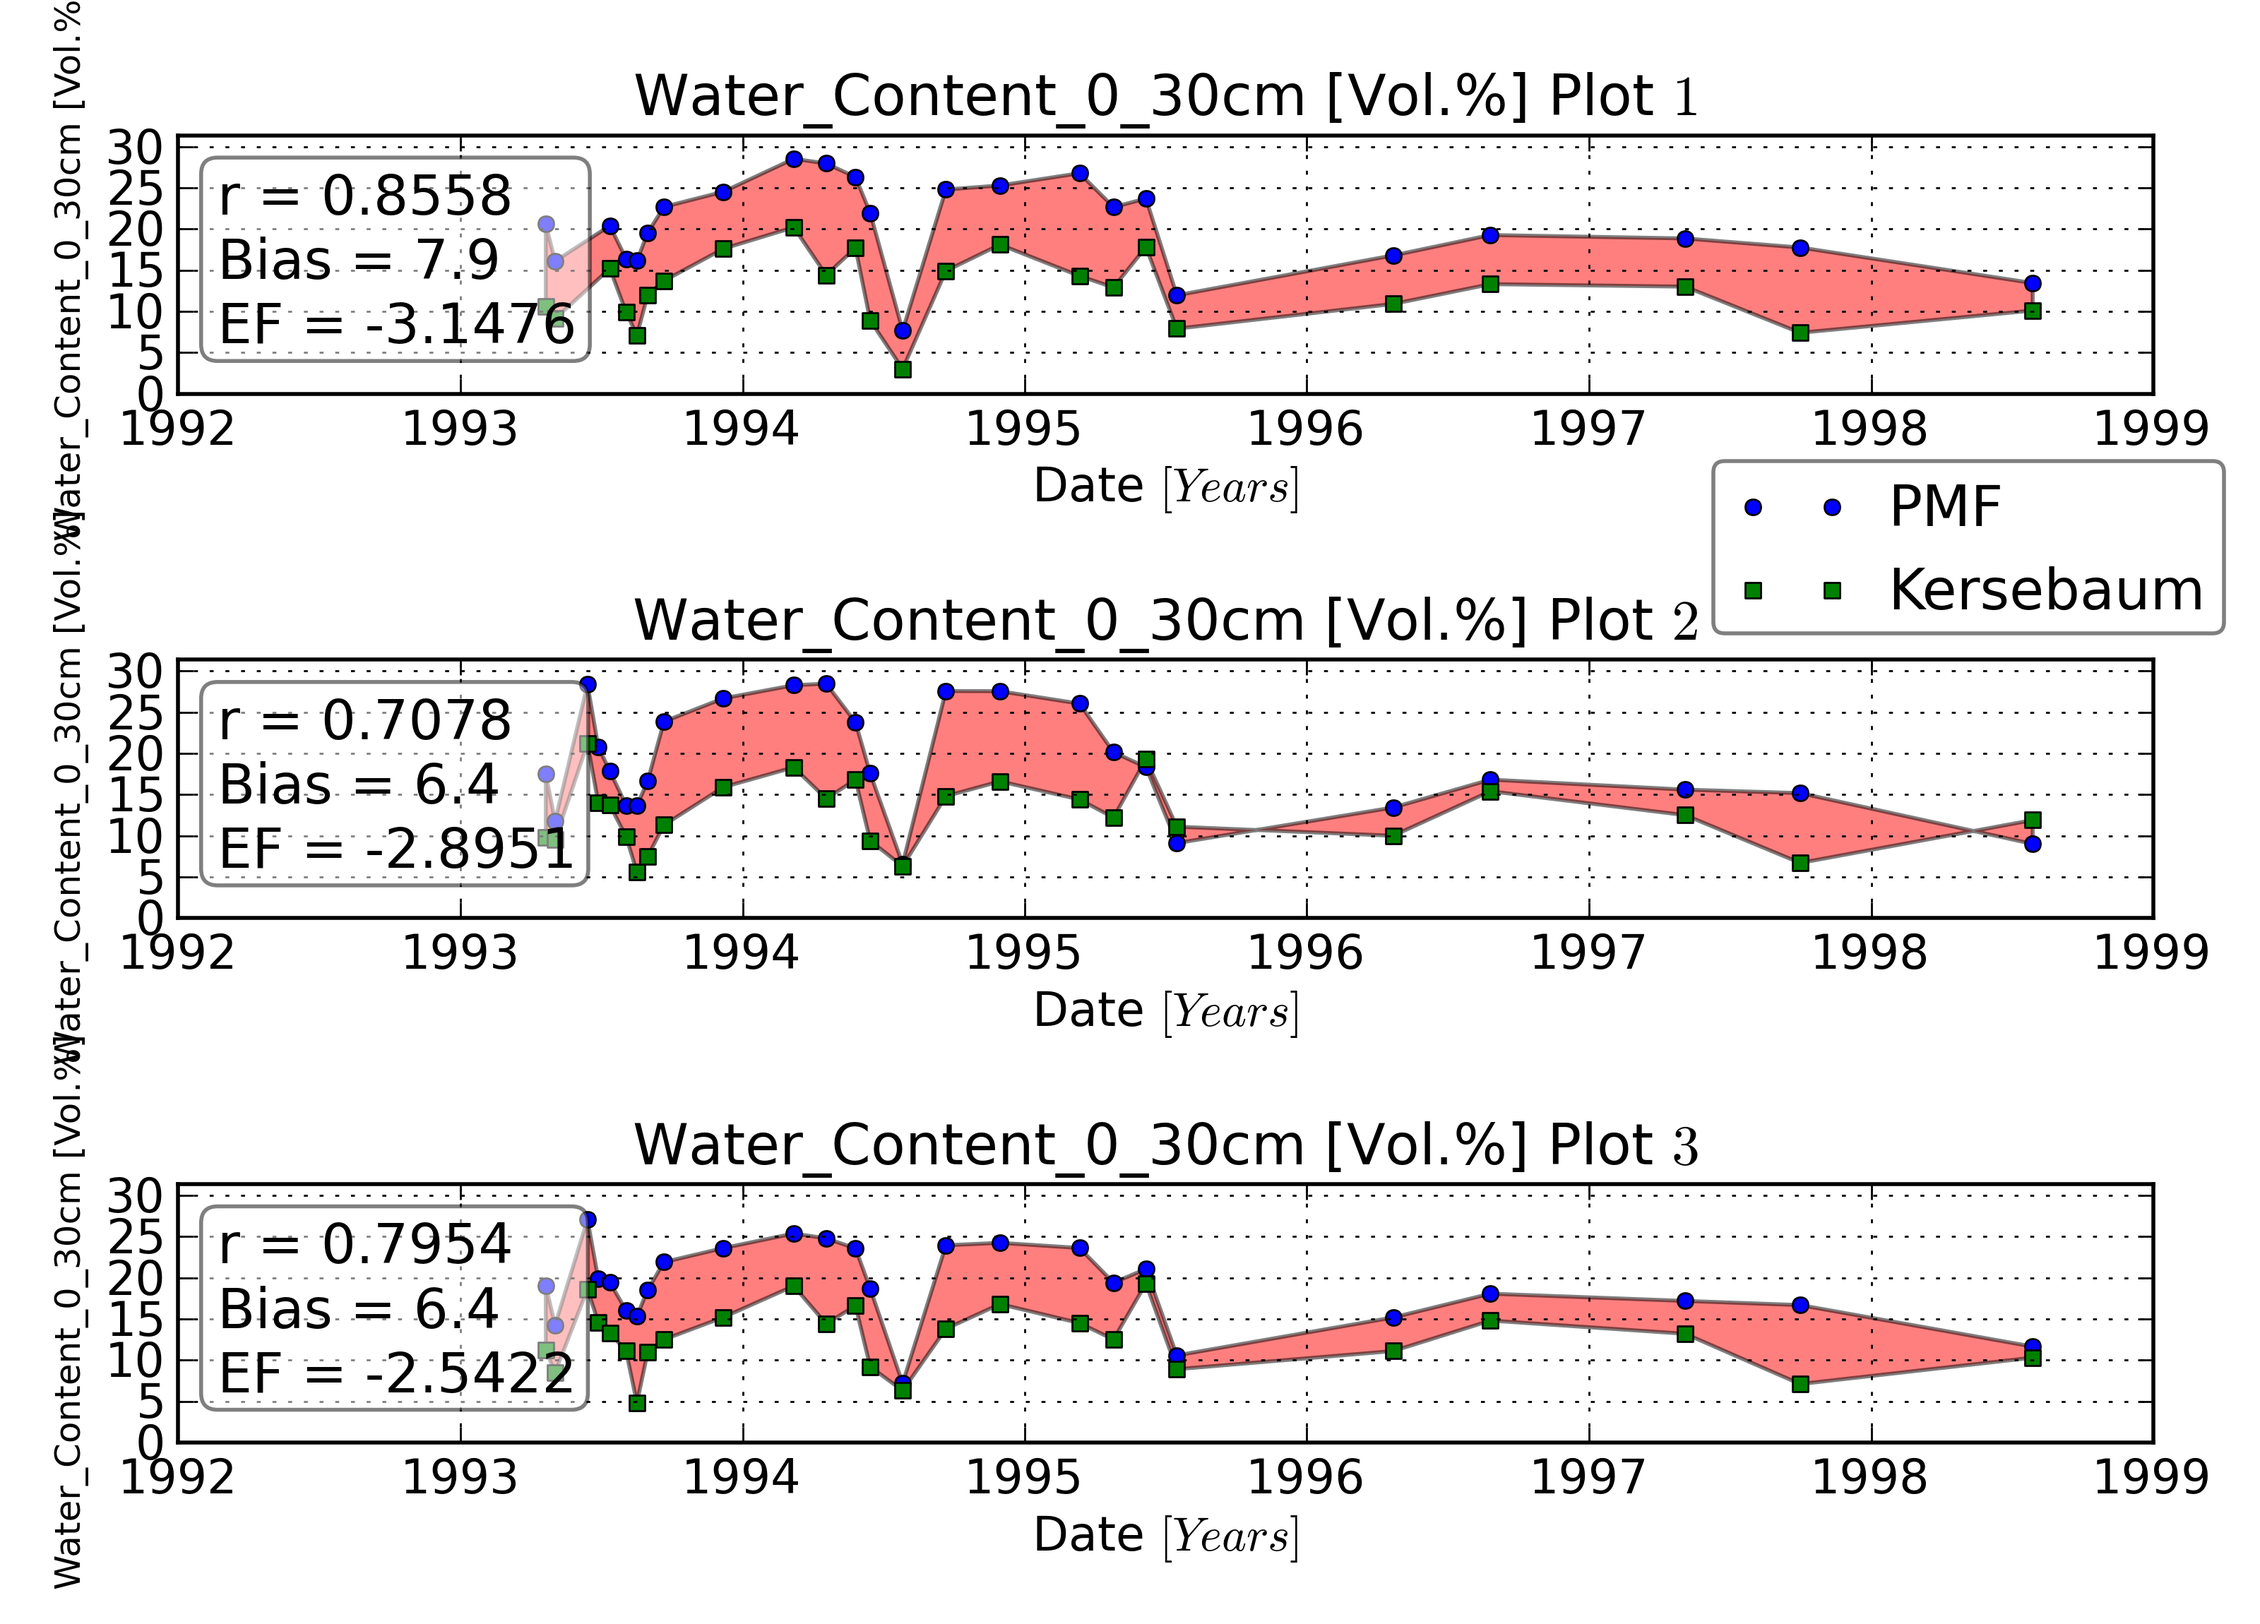
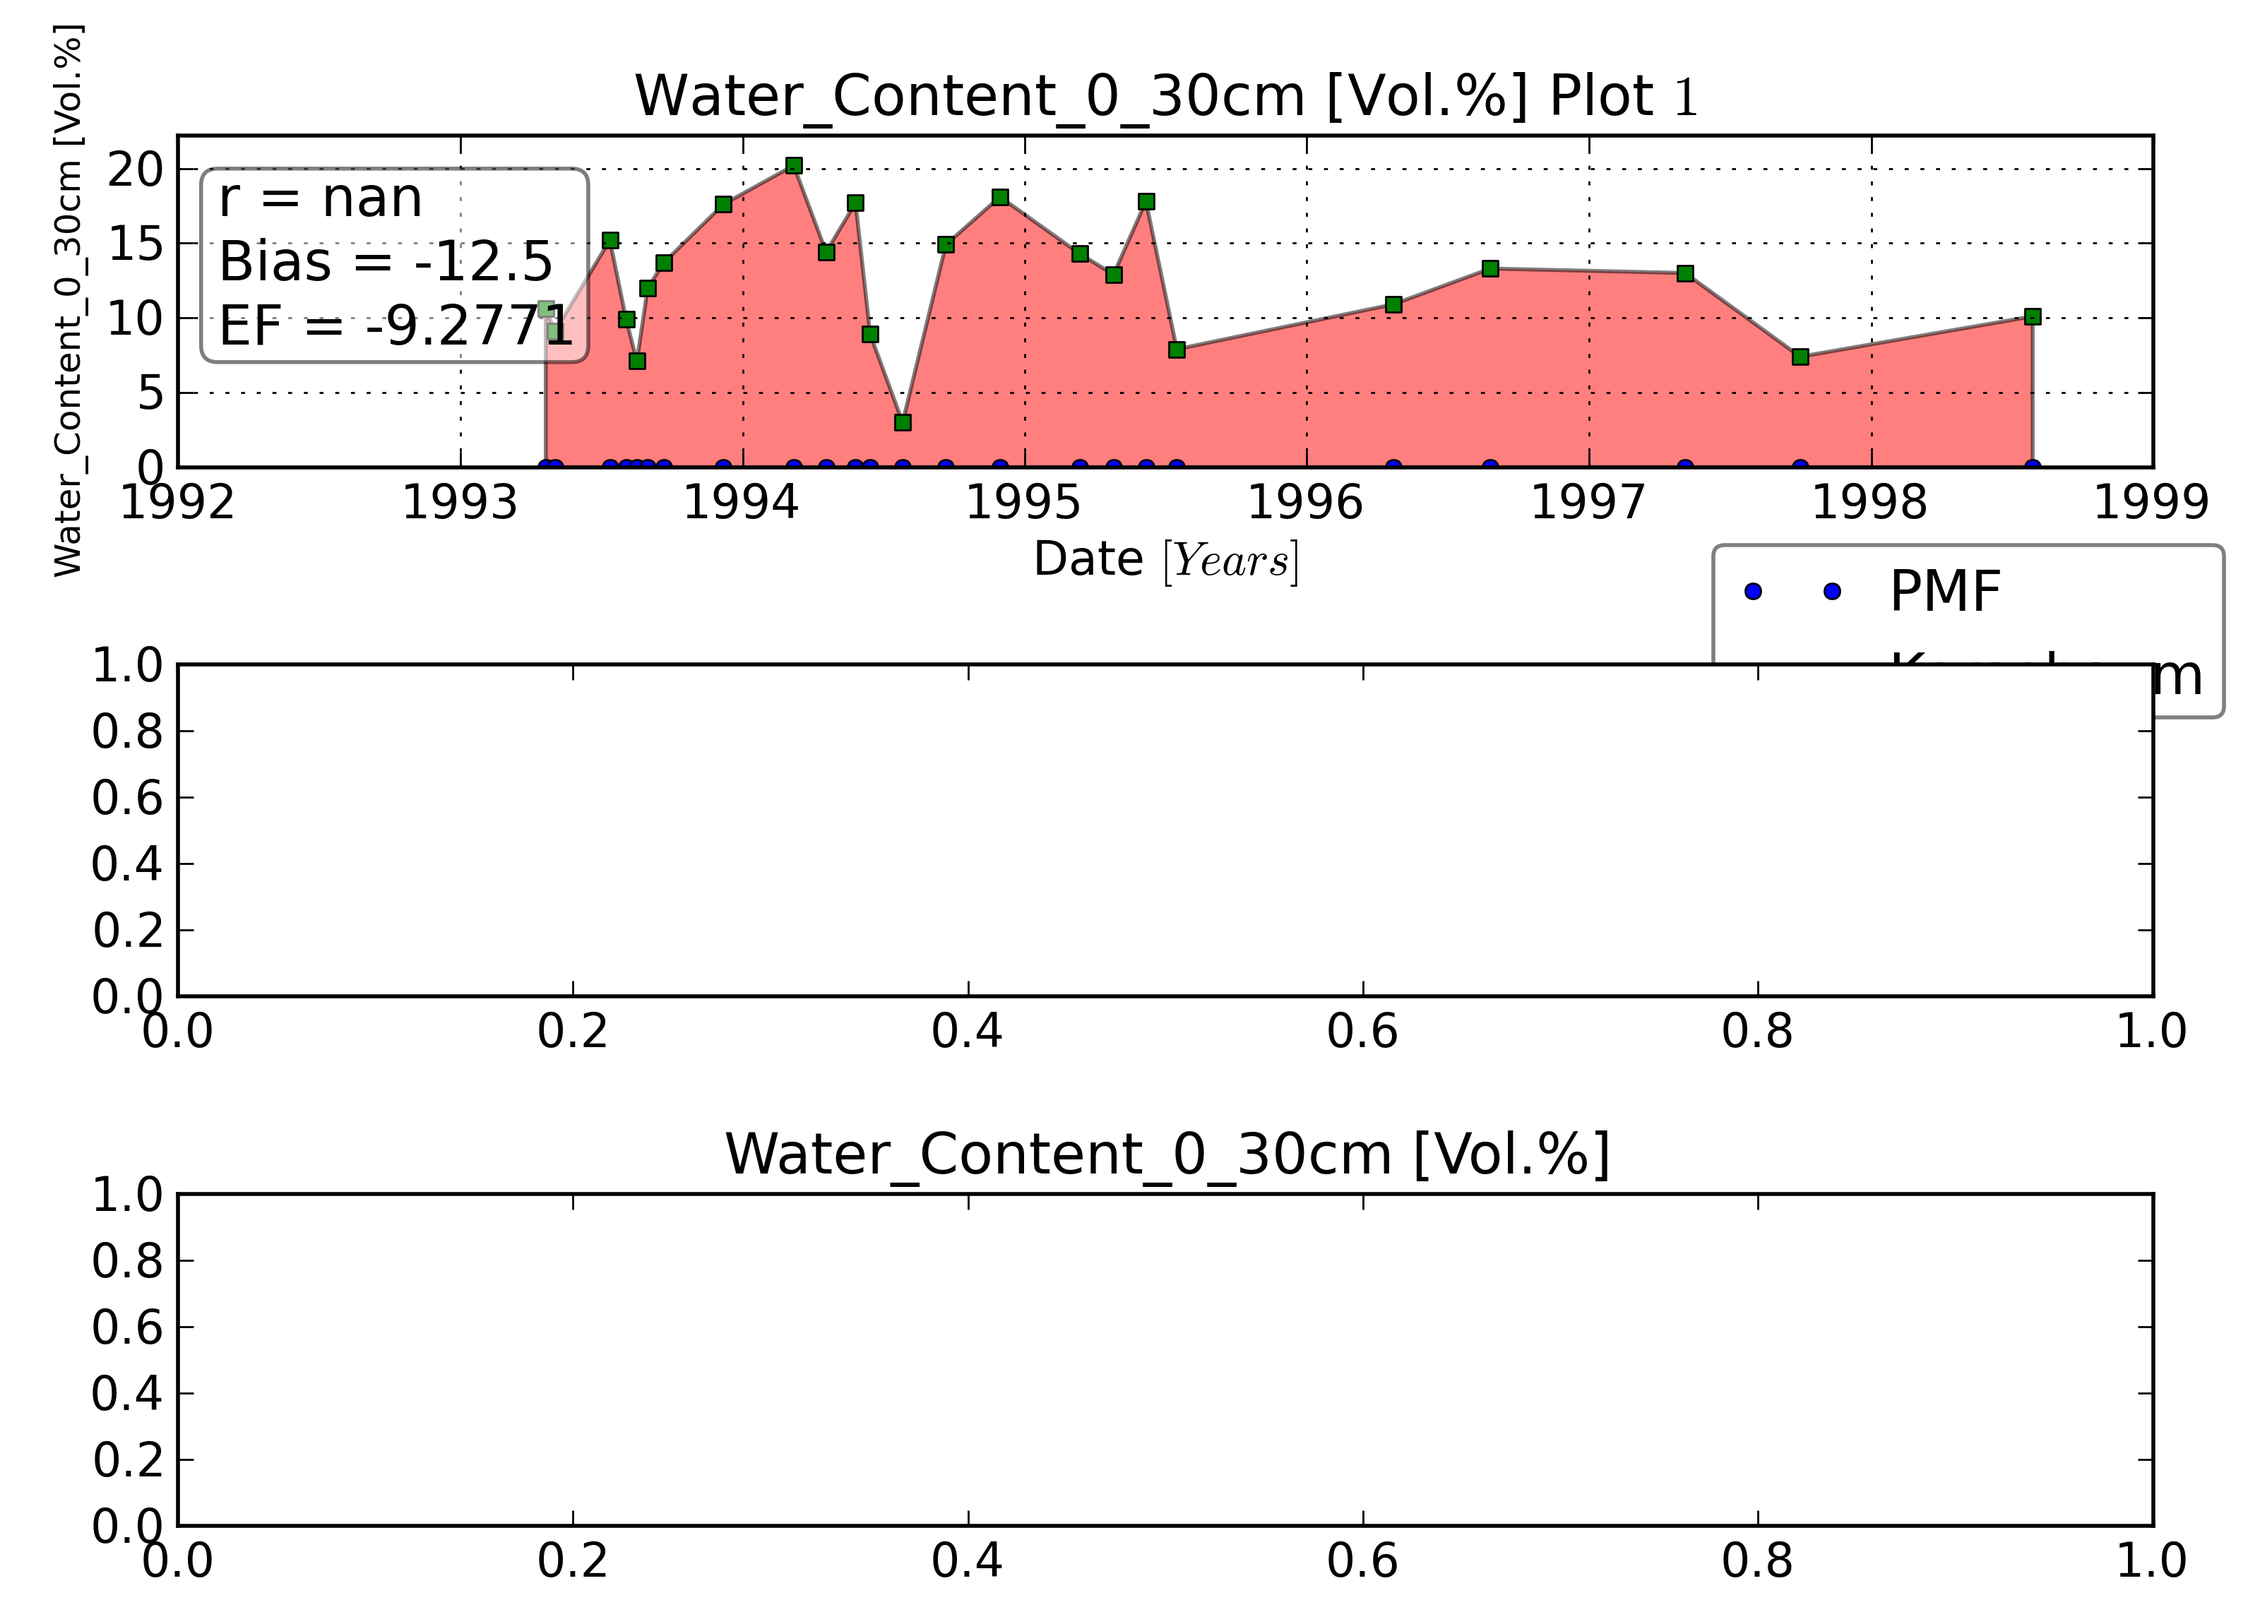
New Feature: - Brooks-Corey90-model in cmf_setup.py changed to                Van-Genuchten-model -> Soil informations from Kersebaum have                no more influence! Parameter will be estimated.              - New file test.py shows how to use numpy arrays

diff --git a/trunk/sensitivity_analysis/sensitivity_analysis_I.py b/trunk/sensitivity_analysis/sensitivity_analysis_I.py
@@ -43,6 +43,8 @@ import cmf
 from cmf_setup import cmf1d
 from cmf_fp_interface import cmf_fp_interface
 import csv, codecs, cStringIO
+import sys
+
 #from math import exp
     
 #######################################
@@ -53,6 +55,7 @@ def run(t,res,plant):
     if t.day==1 and t.month==3: #check sowing
         plant = PMF.createPlant_CMF() #create a plant instance without interfaces
         plant = PMF.connect(plant,cmf_fp,cmf_fp) #connect the plant with soil and atmosphere interface
+        
     if t.day==1 and t.month==8: #check harvest
         plant =  None #delete plant instance
     if plant: #check, if plant exists
@@ -184,13 +187,16 @@ def get_soil_data(Plot):
         #########       Bodenschichten        #########
         if Plot==1:
             #Interpolated Soillayers 
-            c=cmf1d(sand=[90.00,90.00,90.00,90.00,90.00,90.00,90.00,90.00,90.00,90.00,90.00,90.00,90.00,88.33,86.67,85.00,83.33,81.67,80.00,82.00,84.00,86.00,88.00,90.00,92.00,92.33,92.67,93.00,93.33,93.67,94.00,94.13,94.27,94.40,94.53,94.67,94.80,94.93,95.07,95.20,95.33,95.47,95.60,95.73,95.87,96.00],silt=[2.00,2.17,2.33,2.50,2.67,2.83,3.00,3.33,3.67,4.00,4.33,4.67,5.00,5.50,6.00,6.50,7.00,7.50,8.00,7.33,6.67,6.00,5.33,4.67,4.00,3.83,3.67,3.50,3.33,3.17,3.00,2.93,2.87,2.80,2.73,2.67,2.60,2.53,2.47,2.40,2.33,2.27,2.20,2.13,2.07,2.00],clay=[8.00,7.83,7.67,7.50,7.33,7.17,7.00,6.67,6.33,6.00,5.67,5.33,5.00,6.17,7.33,8.50,9.67,10.83,12.00,10.67,9.33,8.00,6.67,5.33,4.00,3.83,3.67,3.50,3.33,3.17,3.00,2.93,2.87,2.80,2.73,2.67,2.60,2.53,2.47,2.40,2.33,2.27,2.20,2.13,2.07,2.00],c_org=[76.00,74.33,72.67,71.00,69.33,67.67,66.00,57.67,49.33,41.00,32.67,24.33,16.00,14.67,13.33,12.00,10.67,9.33,8.00,6.67,5.33,4.00,2.67,1.33,0.00,0.00,0.00,0.00,0.00,0.00,0.00,0.00,0.00,0.00,0.00,0.00,0.00,0.00,0.00,0.00,0.00,0.00,0.00,0.00,0.00,0.00],bedrock_K=0.01,layercount=6,layerthickness=[.05,.05,.05,.05,.05,.05,.05,.05,.05,.05,.05,.05,.05,.05,.05,.05,.05,.05,.05,.05,.05,.05,.05,.05,.05,.05,.05,.05,.05,.05,.05,.05,.05,.05,.05,.05,.05,.05,.05,.05,.05,.05,.05,.05,.05,.05],tracertext='')
+            c=cmf1d(Ksat=1.0,porosity=0.45,alpha=0.05,n=1.5,layercount=50,layerthickness=[0.05]*50)            
+            #c=cmf1d(sand=[90.00,90.00,90.00,90.00,90.00,90.00,90.00,90.00,90.00,90.00,90.00,90.00,90.00,88.33,86.67,85.00,83.33,81.67,80.00,82.00,84.00,86.00,88.00,90.00,92.00,92.33,92.67,93.00,93.33,93.67,94.00,94.13,94.27,94.40,94.53,94.67,94.80,94.93,95.07,95.20,95.33,95.47,95.60,95.73,95.87,96.00],silt=[2.00,2.17,2.33,2.50,2.67,2.83,3.00,3.33,3.67,4.00,4.33,4.67,5.00,5.50,6.00,6.50,7.00,7.50,8.00,7.33,6.67,6.00,5.33,4.67,4.00,3.83,3.67,3.50,3.33,3.17,3.00,2.93,2.87,2.80,2.73,2.67,2.60,2.53,2.47,2.40,2.33,2.27,2.20,2.13,2.07,2.00],clay=[8.00,7.83,7.67,7.50,7.33,7.17,7.00,6.67,6.33,6.00,5.67,5.33,5.00,6.17,7.33,8.50,9.67,10.83,12.00,10.67,9.33,8.00,6.67,5.33,4.00,3.83,3.67,3.50,3.33,3.17,3.00,2.93,2.87,2.80,2.73,2.67,2.60,2.53,2.47,2.40,2.33,2.27,2.20,2.13,2.07,2.00],c_org=[76.00,74.33,72.67,71.00,69.33,67.67,66.00,57.67,49.33,41.00,32.67,24.33,16.00,14.67,13.33,12.00,10.67,9.33,8.00,6.67,5.33,4.00,2.67,1.33,0.00,0.00,0.00,0.00,0.00,0.00,0.00,0.00,0.00,0.00,0.00,0.00,0.00,0.00,0.00,0.00,0.00,0.00,0.00,0.00,0.00,0.00],bedrock_K=0.01,layercount=6,layerthickness=[.05,.05,.05,.05,.05,.05,.05,.05,.05,.05,.05,.05,.05,.05,.05,.05,.05,.05,.05,.05,.05,.05,.05,.05,.05,.05,.05,.05,.05,.05,.05,.05,.05,.05,.05,.05,.05,.05,.05,.05,.05,.05,.05,.05,.05,.05],tracertext='')
+                        
             #Bodendatei='Water_content_Plot1.csv'
             #Orignal Soillayer      
             #c=cmf1d(sand=[90.,90.,80.,92.,94.,96.],silt=[3.,5.,8.,4.,3.,2.],clay=[7.,5.,12.,4.,3.,2.],c_org=[.66,.16,.08,0.,0.,0.],bedrock_K=0.01,layercount=6,layerthickness=[.3,.3,.3,.3,.3,.75],tracertext='')
             
         if Plot==2:
-            #Interpolated Soillayers 
+            #Interpolated Soillayers
+            
             c=cmf1d(sand=[82.00,82.50,83.00,83.50,84.00,84.50,85.00,85.42,85.83,86.25,86.67,87.08,87.50,87.92,88.33,88.75,89.17,89.58,90.00,88.75,87.50,86.25,85.00,83.75,82.50,81.25,80.00,80.00,80.00,80.00,80.00,80.00,80.00,80.00,80.00,85.00,90.00,90.00,90.00,90.00,90.00,90.00,90.00,90.00,90.00,90.00],silt=[13.00,12.50,12.00,11.50,11.00,10.50,10.00,9.58,9.17,8.75,8.33,7.92,7.50,7.08,6.67,6.25,5.83,5.42,5.00,5.38,5.75,6.13,6.50,6.88,7.25,7.63,8.00,8.25,8.50,8.75,9.00,9.25,9.50,9.75,10.00,7.50,5.00,5.00,5.00,5.00,5.00,5.00,5.00,5.00,5.00,5.00],clay=[5.00,5.00,5.00,5.00,5.00,5.00,5.00,5.00,5.00,5.00,5.00,5.00,5.00,5.00,5.00,5.00,5.00,5.00,5.00,5.88,6.75,7.63,8.50,9.38,10.25,11.13,12.00,11.75,11.50,11.25,11.00,10.75,10.50,10.25,10.00,7.50,5.00,5.00,5.00,5.00,5.00,5.00,5.00,5.00,5.00,5.00],c_org=[0.69,0.67,0.65,0.64,0.62,0.60,0.58,0.54,0.51,0.47,0.43,0.39,0.36,0.32,0.28,0.24,0.21,0.17,0.13,0.11,0.10,0.08,0.07,0.05,0.03,0.02,0.00,0.00,0.00,0.00,0.00,0.00,0.00,0.00,0.00,0.00,0.00,0.00,0.00,0.00,0.00,0.00,0.00,0.00,0.00,0.00],bedrock_K=0.01,layercount=6,layerthickness=[.05,.05,.05,.05,.05,.05,.05,.05,.05,.05,.05,.05,.05,.05,.05,.05,.05,.05,.05,.05,.05,.05,.05,.05,.05,.05,.05,.05,.05,.05,.05,.05,.05,.05,.05,.05,.05,.05,.05,.05,.05,.05,.05,.05,.05,.05],tracertext='')
             #Bodendatei='Water_content_Plot2.csv'
             #Orignal Soillayer    
@@ -273,13 +279,13 @@ if __name__=='__main__':
         #Cropvalues = PMF.CropDatabase.CropCoefficiants(RUE = RUE_Faktor+1)
         #PMF.CropDatabase.RUE_CropCoefficants = RUE_Faktor+1     
     #Cropvalues.RUE=RUE_Faktor+1
-    for Plotnumber in range(3):
+    for Plotnumber in range(1):
         Plot =Plotnumber+1
         RUE = 3
         #Parameter = 'storage_organs'
         #Parameter = 'stem_and_leaf'
-        #Parameter = 'Water_Content'
-        Parameter = 'root'
+        Parameter = 'Water_Content'
+        #Parameter = 'root'
         #Parameter_unit = ' Vol[%] '        
         Parameter_unit = ' [kg/ha] '            
         

diff --git a/trunk/sensitivity_analysis/cmf_setup.py b/trunk/sensitivity_analysis/cmf_setup.py
@@ -1,3 +1,4 @@
+# -*- coding: utf-8 -*-
 
 import cmf
 from cmf.soil import layer as ka4_soil
@@ -10,52 +11,48 @@ from datetime import datetime, timedelta
 
 
 class cmf1d(object):
-    def __init__(self,sand,silt,clay,c_org,bedrock_K,layercount,layerthickness,tracertext=''): #was ist mit Bulkdensity? gibt es auch in den Daten
+    def __init__(self,Ksat,porosity,alpha,n,layercount,layerthickness,tracertext=''): #was ist mit Bulkdensity? gibt es auch in den Daten
+        """Creates a Richards Equation 1D model of water fluxes with a lower constant head boundary condition
+        to the groundwater and flux (Neumann) boundary condition for each layer for ET
+        Ksat: sat. conductivity in m/day eg. 1.3
+        porosity: porevolume per soil volume in m³/m³ eg. 0.45
+        alpha: VanGenuchten alpha in 1/cm eg. 0.01
+        n: VanGenuchten n, eg. 1.9
+        bedrock_K: Conductivity of the bedrock in m/day eg. 1.3
+        layercount: Number of layers, eg. 50
+        layerthickness: sequence of layer thickness in m
+        tracertext: cmf conform string, describing the available tracers
+        """        
         self.project=cmf.project(tracertext)
         self.cell=self.project.NewCell(0,0,0,1000)
         c=self.cell      
         # Add 50 layers with 10cm thickness, and 50 Neumann boundary conditions
         self.__bc=[]
-        soil_depth=[]
+        soil_depth=0
         
-        def summe(list):
-            s = 0
-            for element in list:
-                s = s + element
-            return s
             
-    
-        for i,val in enumerate(sand):
-            Anteil_clay=clay[i]
-            Anteil_silt =silt[i]
-            Anteil_sand=sand[i]
-            Anteil_layerthickness=layerthickness[i]
-            soil_depth.append(layerthickness[i])            
-            Anteil_Corg=c_org[i]
-            KA4_soil=ka4_soil(Anteil_layerthickness,Anteil_clay,Anteil_silt,Anteil_sand,Corg=Anteil_Corg) # Berechnung von Ksat, Porositaet, etc. mit pedo-Transferfunktion nach kartieranleitung 4
-            r_curve=cmf.BrooksCoreyRetentionCurve(KA4_soil.KSat , KA4_soil.porosity, KA4_soil.b, KA4_soil.fieldcap) # BROOKS90, berechnung der Retentionskurve mit KA4 Werten
-            c.add_layer(summe(soil_depth),r_curve)
+        r_curve=cmf.VanGenuchtenMualem(Ksat,porosity,alpha,n)
+        for i in range(layercount):
+            # Add up layertickness to current soil depth
+            soil_depth+=layerthickness[i]
+            # add a layer to the cell            
+            c.add_layer(soil_depth,r_curve)
+            # create neumann boundary condition for ET from PMF
             nbc=cmf.NeumannBoundary.create(c.layers[-1])
-            nbc.Name="Boundary condition #%i" % (1)
-            self.__bc.append(nbc)        
-            #print KA4_soil.porosity
-#        for i in arange(0.05,2.0,layerthickness):
-#            KA4_soil=ka4_soil(0.05,clay,silt,sand,Corg=c_org)
-#            r_curve=cmf.BrooksCoreyRetentionCurve(KA4_soil.KSat , KA4_soil.porosity, KA4_soil.b, KA4_soil.fieldcap) 
-#            c.add_layer(i,r_curve)
-#            nbc=cmf.NeumannBoundary.create(c.layers[-1])
-#            nbc.Name="Boundary condition #%i" % (1)
-#            self.__bc.append(nbc)
+            nbc.Name="Boundary condition #%i" % (i)
+            self.__bc.append(nbc)  
+            
+        
+            
+        # Create a surfacewater storage            
         self.cell.surfacewater_as_storage()
             
     
-#        #Add a bedrock layer
-#       c.add_layer(7,cmf.BrooksCoreyRetentionCurve(bedrock_K,0.1,1,0.01))
-#        #Add a groundwater boundary (potential=-5.0 m)
+        # Add a groundwater boundary (potential=-5.0 m)
         self.groundwater=cmf.DirichletBoundary(self.project,-5)
-#       self.groundwater.is_source=True
-#       self.groundwater.Name="Groundwater"
-#       # Connect bedrock layer with groundwater boundary, using Richards equation
+        # self.groundwater.is_source=True
+        self.groundwater.Name="Groundwater"
+        # Connect bedrock layer with groundwater boundary, using Richards equation
         cmf.Richards(c.layers[-1],self.groundwater)
         dbc = cmf.Richards(c.layers[-1],self.groundwater)
         

diff --git a/trunk/sensitivity_analysis/Plot_Tool.py b/trunk/sensitivity_analysis/Plot_Tool.py
@@ -379,10 +379,10 @@ if __name__=='__main__':
 #    Position_Messwerte = 4
 #    Position_Ergebnisse = 3
 
-#    Parameter = 'Water_Content_0_30cm'
-#    Parameter_unit = ' [Vol.%] '
-#    Position_Messwerte = 4
-#    Position_Ergebnisse = 3
+    Parameter = 'Water_Content_0_30cm'
+    Parameter_unit = ' [Vol.%] '
+    Position_Messwerte = 4
+    Position_Ergebnisse = 3
 
 #    Parameter = 'Water_Content_30_60cm'
 #    Parameter_unit = ' [Vol.%] '
@@ -394,10 +394,10 @@ if __name__=='__main__':
 #    Position_Messwerte = 4
 #    Position_Ergebnisse = 3
 
-    Parameter = 'root'
-    Parameter_unit = ' [kg/ha] '
-    Position_Messwerte = 4
-    Position_Ergebnisse = 3
+#    Parameter = 'root'
+#    Parameter_unit = ' [kg/ha] '
+#    Position_Messwerte = 4
+#    Position_Ergebnisse = 3
     
     """
     Runtimeloop:
@@ -410,7 +410,7 @@ if __name__=='__main__':
     ax2 = plt.subplot(312)
     ax3 = plt.subplot(313)
     plt.title(Parameter+Parameter_unit)
-    for Plotnumber in range(3):       
+    for Plotnumber in range(1):       
         Plot = Plotnumber+1
         Meas=Measured()
         Calc=Calculated()
@@ -420,7 +420,7 @@ if __name__=='__main__':
     Biggest_value = np.max(np.max(np.max(Values)))
 
         
-    for Plotnumber in range(3):    
+    for Plotnumber in range(1):    
         Plot = Plotnumber+1      
         Meas=Measured()
         Calc=Calculated()

diff --git a/trunk/sensitivity_analysis/test.py b/trunk/sensitivity_analysis/test.py
@@ -1,0 +1,17 @@
+# -*- coding: utf-8 -*-
+"""
+Created on Thu Sep 06 13:41:23 2012
+
+@author: Pooder
+"""
+
+import numpy as np
+
+
+fname = 'test.csv'
+dtype=[('Jahr', '<f8'), ('Monat', '<f8'), ('Tag', '<f8'), ('Biomasse', '<f8')]
+myFile = np.genfromtxt(fname,delimiter=';',names=True,dtype=dtype)
+
+# x = np.genfromtxt('Tabelle_RUE.csv',delimiter=',',names=True)
+#dtype=[('ID', '|S10'),('OFAT_factor', '|S10'),('OFAT_value', 'f8'),('Pot.biomass', 'f'),('Act.biomass', 'f')]
+   
